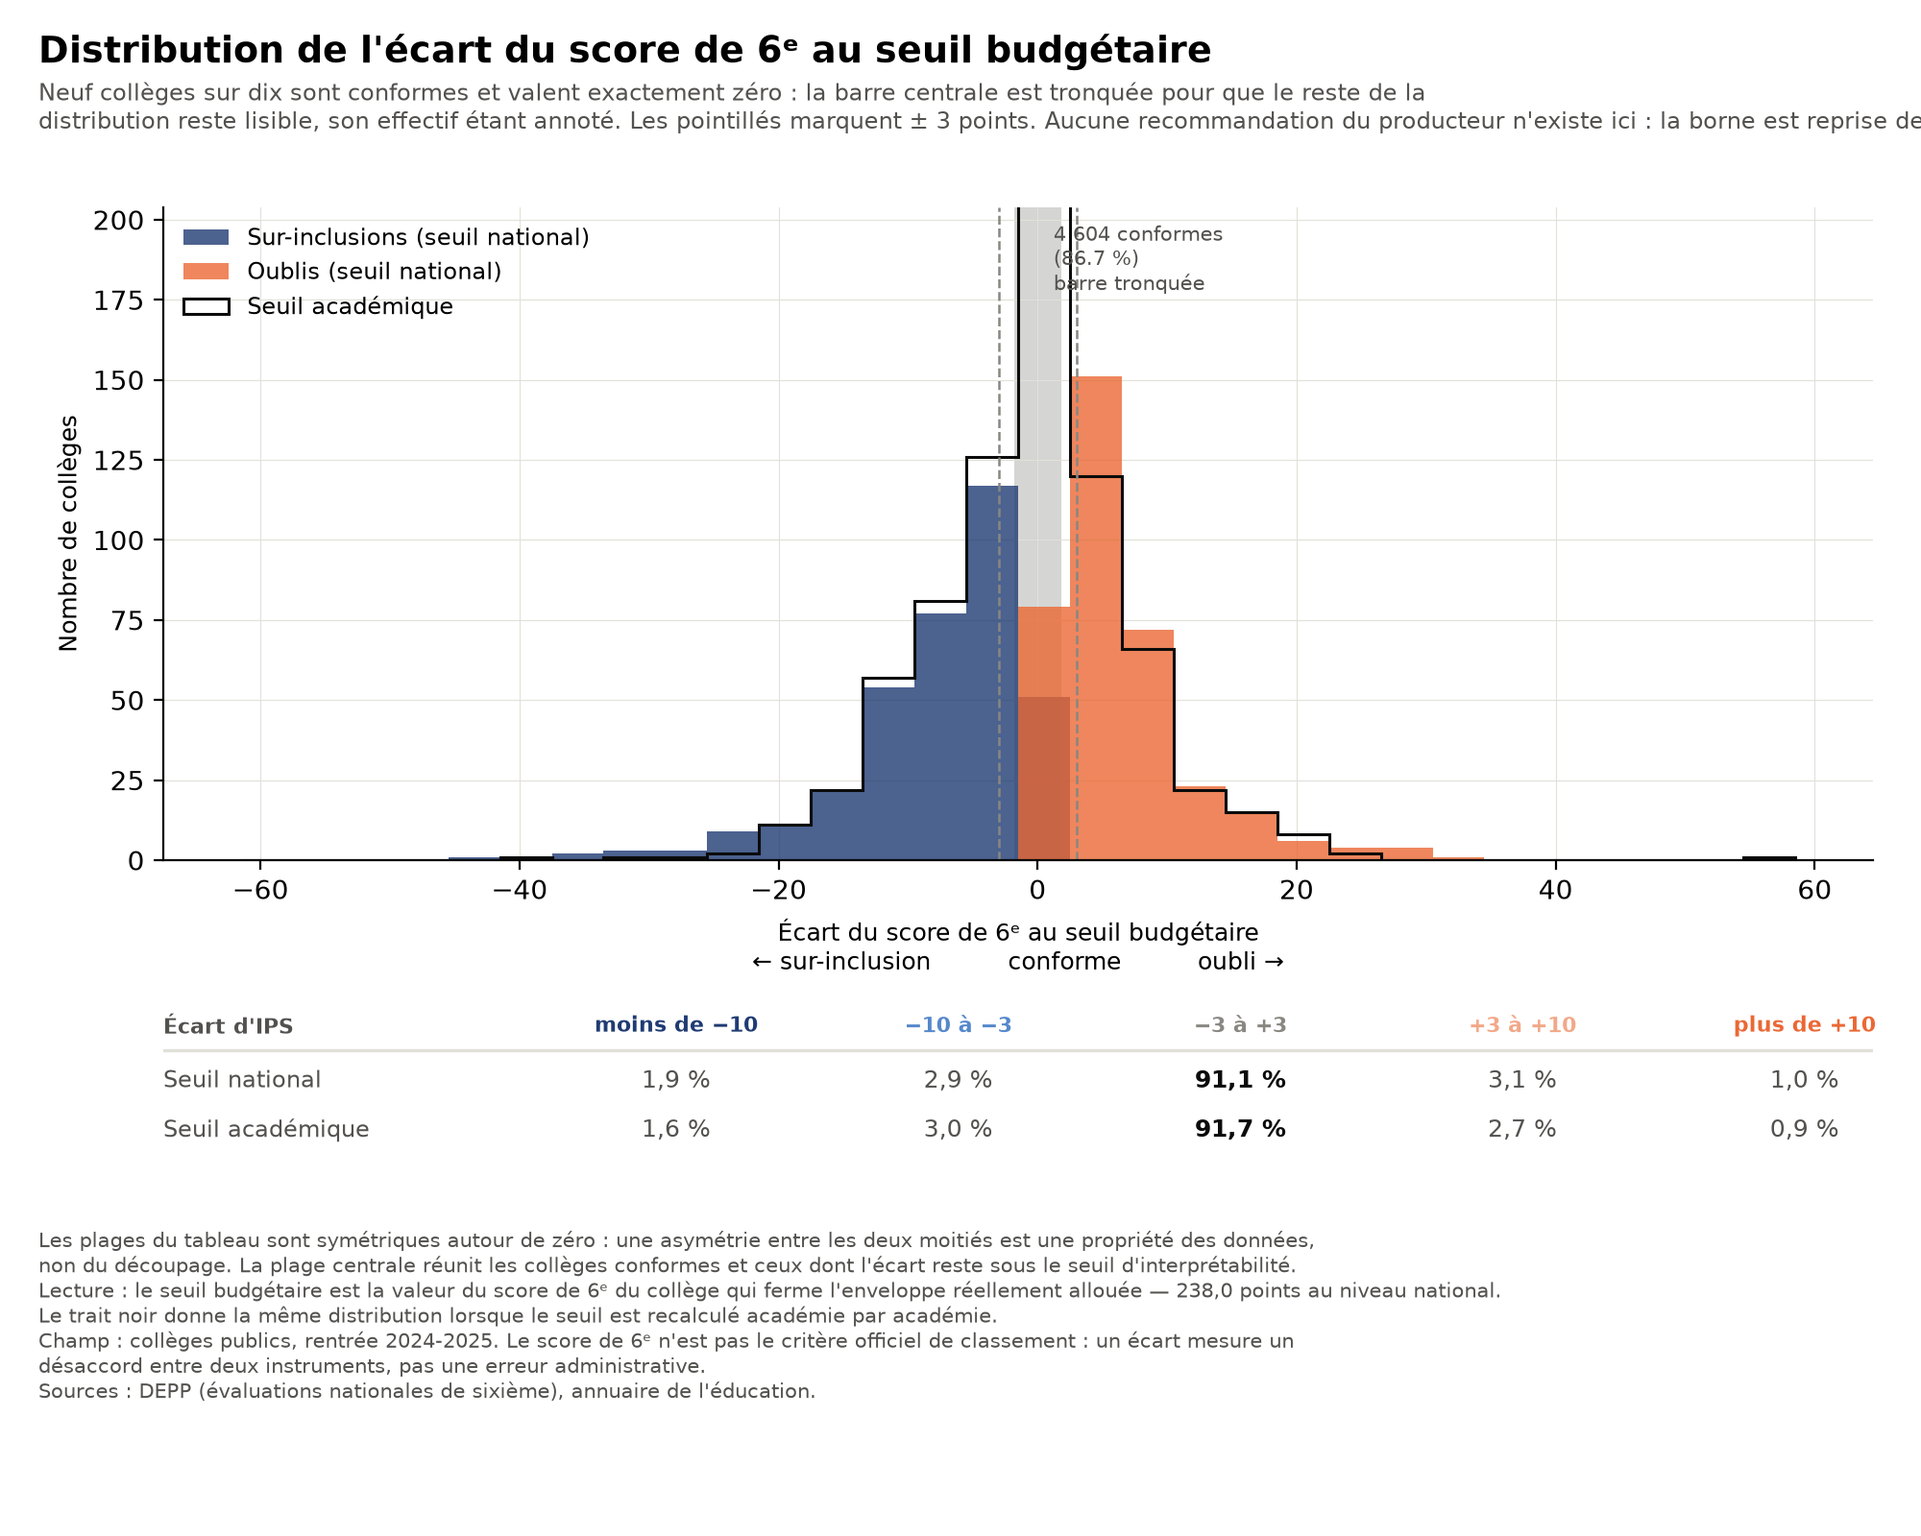
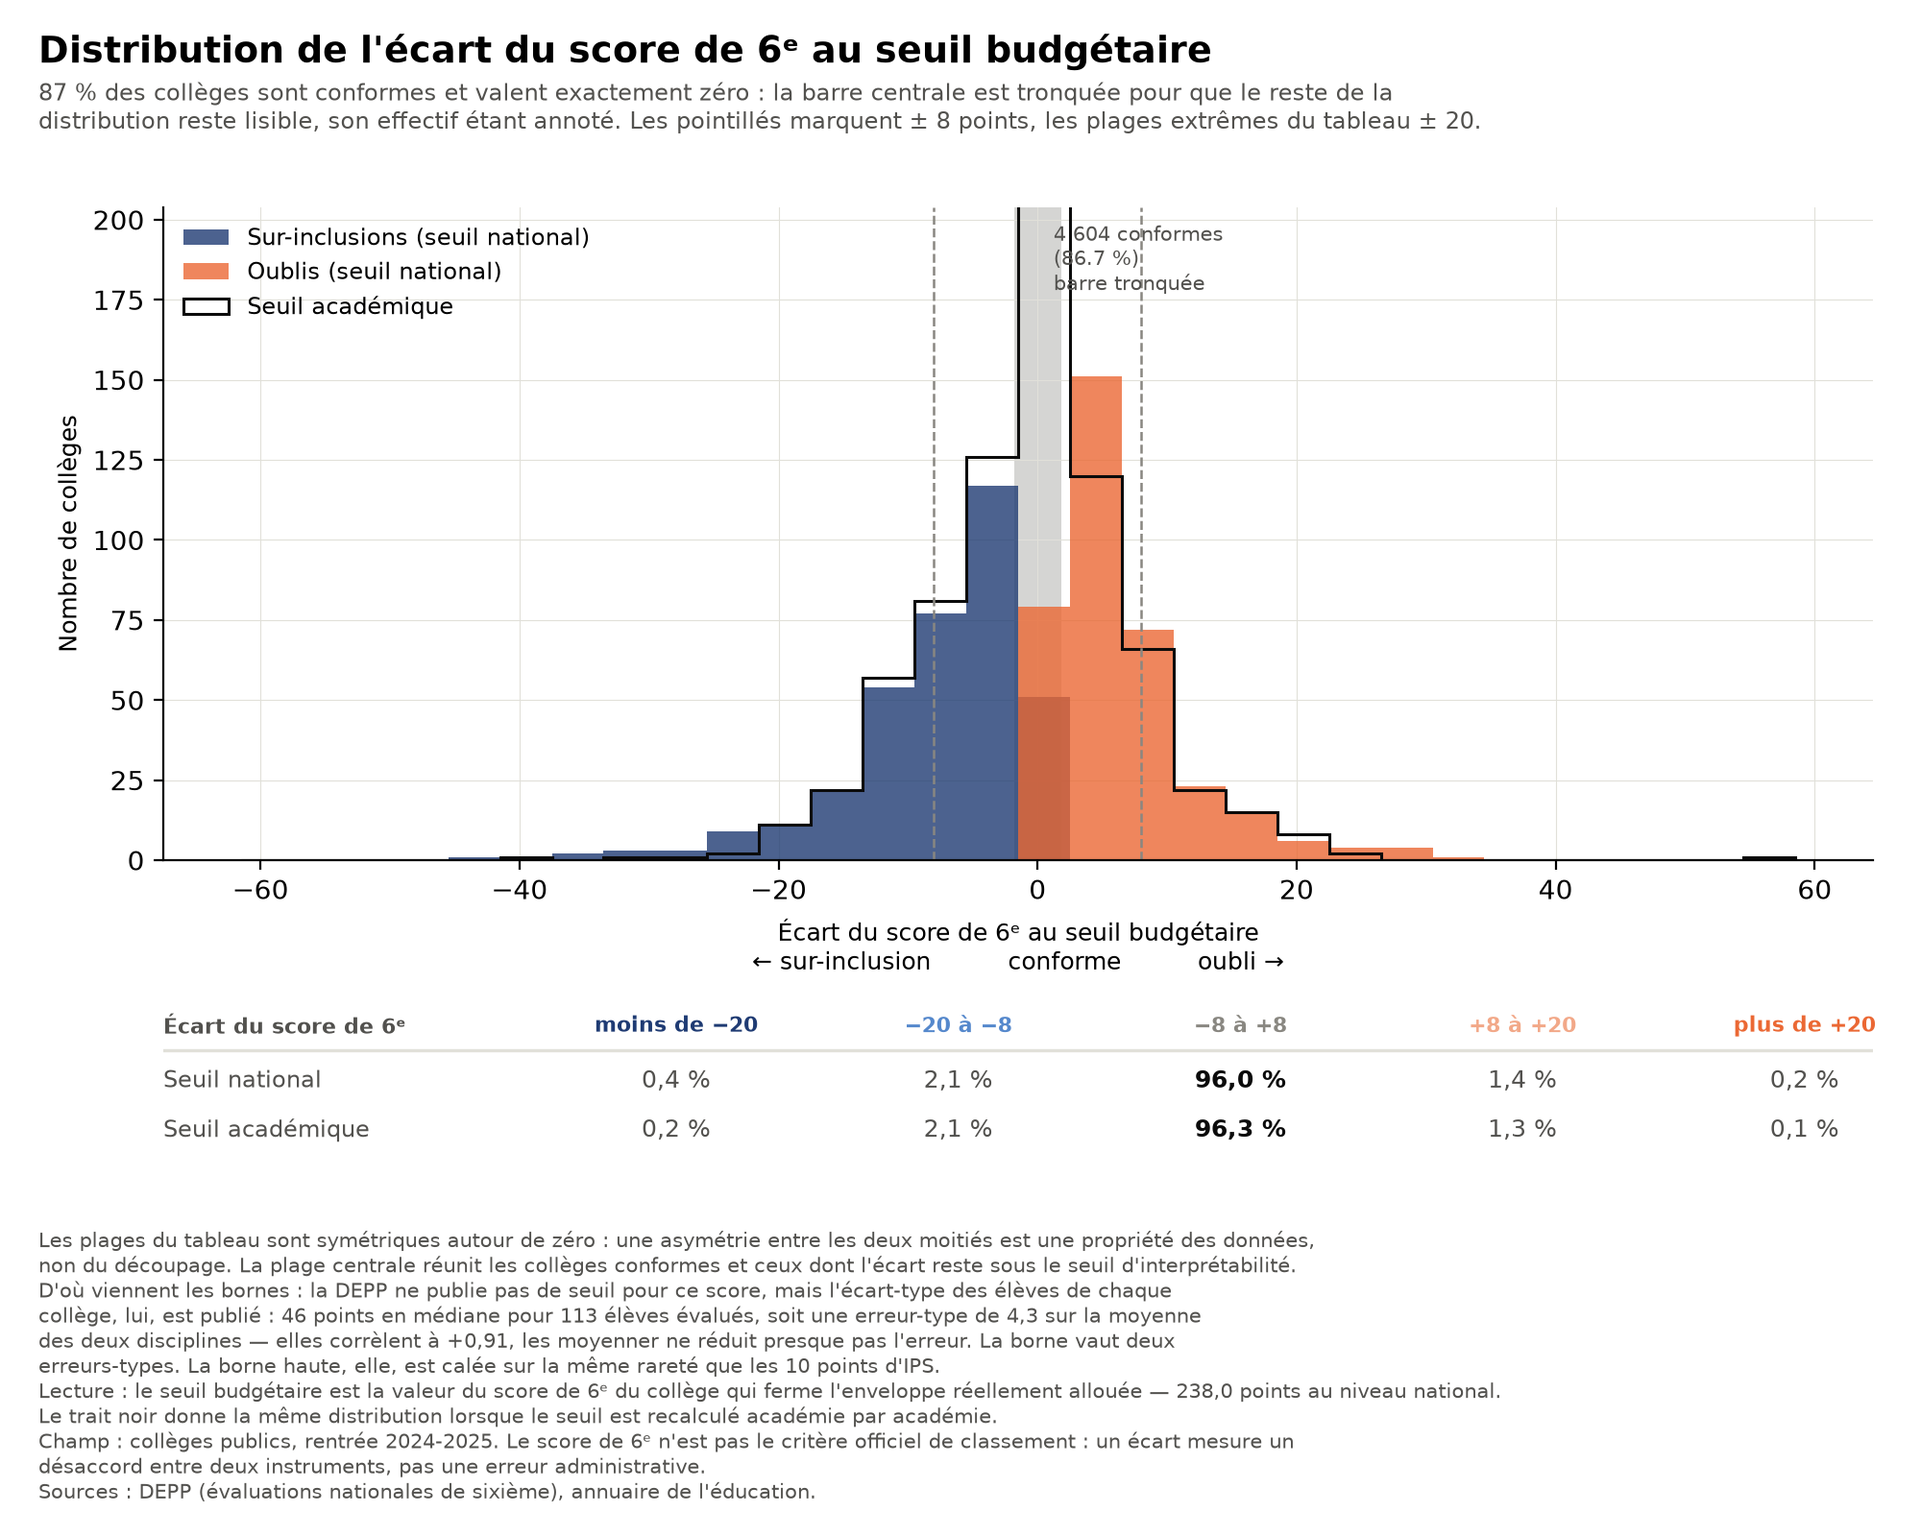
Seuils propres au score de 6e : 8 et 20 points au lieu de 3 et 10
Les bornes du tableau de `distribution_ecart` etaient reprises de l'IPS pour le
score de sixieme, ce qui etait une faute : le score d'un college est la moyenne
d'une centaine d'eleves, donc bien plus bruite que l'IPS. Ces bornes placaient
8,9 % des colleges hors de la bande centrale contre 4,8 % pour l'IPS — elles
faisaient paraitre l'etalon deux fois plus en desaccord avec la carte reelle
qu'il ne l'est.

D'OU VIENNENT LES NOUVELLES BORNES

La DEPP ne publie aucun seuil d'interpretabilite pour ce score. Mais elle publie
l'ecart-type des eleves de chaque college, ce qui permet de construire l'exact
equivalent de sa regle des 3 points d'IPS :

  ecart-type intra-etablissement      46 points (mediane)
  effectif evalue                    113 eleves (mediane)
  correlation francais / maths        +0,914 au niveau college
  erreur-type de la moyenne des deux    4,32 points
  deux erreurs-types                    8,6  ->  borne basse a 8

La correlation de 0,914 compte : les deux disciplines disent presque la meme
chose, donc les moyenner ne reduit quasiment pas l'erreur. Un college du premier
decile d'effectif monte a 13 points.

Aucune regle de mesure ne s'applique a la borne haute — les 10 points d'IPS sont
une convention dont le role est d'isoler la queue extreme. Le seul critere
transposable est donc la RARETE : 20 points laissent au-dela la meme part de
colleges que 10 points d'IPS.

Quatre routes avaient ete testees. L'equivalence en ecart-type inter-
[…]

diff --git a/src/distribution_ecart.py b/src/distribution_ecart.py
@@ -38,6 +38,8 @@ import matplotlib
 
 matplotlib.use("Agg")  # backend sans fenetre : on ecrit des fichiers
 
+import textwrap
+
 import matplotlib.pyplot as plt
 import numpy as np
 import pandas as pd
@@ -47,11 +49,33 @@ from src.etalons import ETALONS, fichier_scores, nom_figure
 
 DOSSIER_TABLES = PROJECT_ROOT / "outputs" / "tables"
 
-# Seuil d'interpretabilite de l'IPS recommande par la DEPP. Sert ici de repere
-# visuel et de borne interieure du tableau, pas de filtre : la figure montre
-# toute la distribution.
-SEUIL_INTERPRETABLE = 3.0
-SEUIL_FORT = 10.0
+# Bornes du tableau, propres a chaque etalon. Reperes visuels et bornes de
+# plages, jamais des filtres : la figure montre toute la distribution.
+#
+# POUR L'IPS, les 3 points sont la recommandation de la DEPP — en deca, une
+# difference n'est pas interpretable — et les 10 points une convention qui
+# isole la queue extreme.
+#
+# POUR LE SCORE DE SIXIEME, la DEPP ne publie aucun seuil d'interpretabilite.
+# Reprendre 3 et 10 serait une faute : le score d'un college est la moyenne
+# d'une centaine d'eleves, donc bien plus bruite que l'IPS. Ces seuils
+# placaient 8,9 % des colleges hors de la bande centrale contre 4,8 % pour
+# l'IPS — ils faisaient paraitre l'etalon deux fois plus en desaccord avec la
+# carte reelle qu'il ne l'est.
+#
+#   8 points  = deux erreurs-types de la moyenne d'un college. C'est l'analogue
+#               exact de la regle des 3 points : l'ecart-type des eleves dans
+#               un college vaut 46 points en mediane, pour 113 eleves evalues,
+#               soit une erreur-type de 4,3 sur la moyenne des deux disciplines
+#               — elles correlent a +0,91, les moyenner ne reduit presque pas
+#               l'erreur. Deux erreurs-types donnent 8,6, arrondi a 8.
+#
+#  20 points  = meme RARETE que 10 points d'IPS. Aucune regle de mesure ne
+#               s'applique a cette borne : son role est d'isoler la queue, et
+#               le seul critere transposable est la part de colleges au-dela.
+#
+# Avec ce reglage les cinq plages retombent a un point de celles de l'IPS.
+SEUILS_PAR_ETALON = {"ips": (3.0, 10.0), "eval6": (8.0, 20.0)}
 
 # Largeur de classe de l'histogramme. L'IPS s'etale sur une centaine de
 # points, le score de sixieme sur plusieurs centaines : le pas suit l'echelle
@@ -65,13 +89,17 @@ ENCRE, GRILLE, MUET, ENCRE_2 = "#0b0b0b", "#e1e0d9", "#898781", "#52514e"
 VARIANTES = [("score_ecart", "type_ecart", "national"),
              ("score_ecart_academie", "type_ecart_academie", "académique")]
 
-# Libelle, couleur de l'en-tete. L'ordre suit l'axe des abscisses, de la
-# sur-inclusion la plus forte a l'oubli le plus fort.
-PLAGES = [("moins de −10", BLEU),
-          ("−10 à −3", BLEU_CLAIR),
-          ("−3 à +3", MUET),
-          ("+3 à +10", ORANGE_CLAIR),
-          ("plus de +10", ORANGE)]
+# Couleurs des cinq plages, de la sur-inclusion la plus forte a l'oubli le plus
+# fort. Les libelles sont construits a partir des seuils de l'etalon : les
+# ecrire en dur les aurait laisses sur "−10 à −3" pour le score de sixieme.
+COULEURS_PLAGES = [BLEU, BLEU_CLAIR, MUET, ORANGE_CLAIR, ORANGE]
+
+
+def libelles_plages(bas: float, haut: float) -> list[str]:
+    """Les cinq etiquettes du tableau, pour un couple de seuils."""
+    b, h = f"{bas:g}", f"{haut:g}"
+    return [f"moins de −{h}", f"−{h} à −{b}", f"−{b} à +{b}",
+            f"+{b} à +{h}", f"plus de +{h}"]
 
 
 def charger(cle: str) -> pd.DataFrame:
@@ -95,31 +123,32 @@ def signer(df: pd.DataFrame, col_score: str, col_type: str) -> np.ndarray:
         [df[col_score], -df[col_score]], default=0.0)
 
 
-def repartir(valeurs: np.ndarray) -> np.ndarray:
+def repartir(valeurs: np.ndarray, bas: float, haut: float) -> np.ndarray:
     """Part de colleges, en %, dans chacune des cinq plages d'ecart.
 
     Les conditions sont testees dans l'ordre et la plage centrale vient en
-    premier : elle est definie par |ecart| <= 3, ce qui la rend exactement
+    premier : elle est definie par |ecart| <= bas, ce qui la rend exactement
     symetrique. Les quatre autres s'en deduisent par le signe et par le
-    franchissement de 10. Aucune borne n'est ainsi attribuee deux fois, et le
-    decoupage ne peut pas fabriquer d'asymetrie.
+    franchissement de haut. Aucune borne n'est ainsi attribuee deux fois, et
+    le decoupage ne peut pas fabriquer d'asymetrie.
     """
     absolu = np.abs(valeurs)
     indices = np.select(
-        [absolu <= SEUIL_INTERPRETABLE,
-         (valeurs < 0) & (absolu > SEUIL_FORT),
+        [absolu <= bas,
+         (valeurs < 0) & (absolu > haut),
          valeurs < 0,
-         valeurs > SEUIL_FORT],
+         valeurs > haut],
         [2, 0, 1, 4],
         default=3)
-    effectifs = np.bincount(indices, minlength=len(PLAGES))
+    effectifs = np.bincount(indices, minlength=len(COULEURS_PLAGES))
     return 100 * effectifs / len(valeurs)
 
 
-def resumer(df: pd.DataFrame) -> None:
+def resumer(df: pd.DataFrame, etalon: dict, bas: float, haut: float) -> None:
     """Affiche la composition de la distribution, par variante."""
     print(f"\n{'=' * 84}")
-    print(f"DISTRIBUTION DE L'ECART D'IPS — {len(df)} colleges publics")
+    print(f"DISTRIBUTION DE L'ECART — {etalon['libelle_long'].upper()} — "
+          f"{len(df)} colleges publics")
     print("=" * 84)
 
     for col_score, _, libelle in VARIANTES:
@@ -135,14 +164,15 @@ def resumer(df: pd.DataFrame) -> None:
     print(f"\n{'-' * 84}")
     print("REPARTITION PAR PLAGE D'ECART, EN % DES COLLEGES")
     print("-" * 84)
-    entetes = [libelle.replace("−", "-") for libelle, _ in PLAGES]
+    entetes = [l.replace("−", "-") for l in libelles_plages(bas, haut)]
     print(f"{'seuil':14s}" + "".join(f"{e:>15s}" for e in entetes))
     for col_score, col_type, libelle in VARIANTES:
-        parts = repartir(signer(df, col_score, col_type))
+        parts = repartir(signer(df, col_score, col_type), bas, haut)
         print(f"{libelle:14s}" + "".join(f"{p:>14.1f}%" for p in parts))
 
 
-def tableau(fig, df: pd.DataFrame, position: list) -> None:
+def tableau(fig, df: pd.DataFrame, position: list, etalon: dict,
+            bas: float, haut: float) -> None:
     """Dessine sous le graphe la repartition en % par plage, pour les 2 seuils.
 
     Le tableau est trace a la main plutot qu'avec `ax.table` : on veut des
@@ -158,22 +188,23 @@ def tableau(fig, df: pd.DataFrame, position: list) -> None:
     # Colonne de libelles a gauche, puis cinq colonnes de valeurs reparties
     # sur l'espace restant.
     x_libelle = 0.0
-    x_colonnes = np.linspace(0.30, 0.96, len(PLAGES))
+    plages = list(zip(libelles_plages(bas, haut), COULEURS_PLAGES))
+    x_colonnes = np.linspace(0.30, 0.96, len(plages))
     y_entete, y_lignes = 0.82, [0.46, 0.14]
 
-    ax.text(x_libelle, y_entete, "Écart d'IPS", fontsize=8,
+    ax.text(x_libelle, y_entete, f"Écart {etalon['de_article']}", fontsize=8,
             fontweight="bold", color=ENCRE_2, va="center")
-    for x, (libelle, couleur) in zip(x_colonnes, PLAGES):
+    for x, (libelle, couleur) in zip(x_colonnes, plages):
         ax.text(x, y_entete, libelle, fontsize=8, fontweight="bold",
                 color=couleur, ha="center", va="center")
 
     ax.plot([0, 1], [0.66, 0.66], color=GRILLE, linewidth=1.2)
 
     for y, (col_score, col_type, libelle) in zip(y_lignes, VARIANTES):
-        parts = repartir(signer(df, col_score, col_type))
+        parts = repartir(signer(df, col_score, col_type), bas, haut)
         ax.text(x_libelle, y, f"Seuil {libelle}", fontsize=8.5,
                 color=ENCRE_2, va="center")
-        for x, part, (_, couleur) in zip(x_colonnes, parts, PLAGES):
+        for x, part, (_, couleur) in zip(x_colonnes, parts, plages):
             # La plage centrale concentre neuf colleges sur dix : elle est mise
             # en gras pour qu'on ne la confonde pas avec les quatre autres.
             centrale = couleur == MUET
@@ -189,6 +220,7 @@ def figure(df: pd.DataFrame, cle: str, etalon: dict) -> None:
     academique = signer(df, "score_ecart_academie", "type_ecart_academie")
 
     pas = PAS_PAR_ETALON[cle]
+    bas, haut = SEUILS_PAR_ETALON[cle]
     sujet = etalon["avec_article"][0].upper() + etalon["avec_article"][1:]
     seuil_txt = (f"{df['seuil'].iloc[0]:.{etalon['decimales']}f} points"
                  .replace(".", ","))
@@ -223,7 +255,7 @@ def figure(df: pd.DataFrame, cle: str, etalon: dict) -> None:
                 xy=(0, plafond), xytext=(6, -6), textcoords="offset points",
                 ha="left", va="top", fontsize=7.5, color=ENCRE_2)
 
-    for borne_seuil in (-SEUIL_INTERPRETABLE, SEUIL_INTERPRETABLE):
+    for borne_seuil in (-bas, bas):
         ax.axvline(borne_seuil, color=MUET, linewidth=0.9, linestyle="--")
 
     ax.set_xlabel(f"Écart {etalon['de_article']} au seuil budgétaire\n"
@@ -236,16 +268,19 @@ def figure(df: pd.DataFrame, cle: str, etalon: dict) -> None:
     for bord in ["top", "right"]:
         ax.spines[bord].set_visible(False)
 
-    tableau(fig, df, [0.085, 0.250, 0.89, 0.100])
+    tableau(fig, df, [0.085, 0.250, 0.89, 0.100], etalon, bas, haut)
 
     fig.suptitle(f"Distribution de l'écart {etalon['de_article']} au seuil "
                  f"budgétaire",
                  fontsize=13.5, fontweight="bold", x=0.02, ha="left", y=0.978)
+    part_nulle = 100 * (national == 0).mean()
     fig.text(0.02, 0.948,
-             "Neuf collèges sur dix sont conformes et valent exactement zéro : la "
-             "barre centrale est tronquée pour que le reste de la\n"
-             "distribution reste lisible, son effectif étant annoté. Les pointillés "
-             f"marquent ± {SEUIL_INTERPRETABLE:.0f} points. {justification}",
+             f"{part_nulle:.0f} % des collèges sont conformes et valent "
+             f"exactement zéro : la barre centrale est tronquée pour que le "
+             f"reste de la\n"
+             "distribution reste lisible, son effectif étant annoté. Les "
+             f"pointillés marquent ± {bas:g} points, les plages extrêmes du "
+             f"tableau ± {haut:g}.",
              fontsize=8.5, va="top", color=ENCRE_2)
 
     fig.text(0.02, 0.200,
@@ -253,6 +288,10 @@ def figure(df: pd.DataFrame, cle: str, etalon: dict) -> None:
              "entre les deux moitiés est une propriété des données,\n"
              "non du découpage. La plage centrale réunit les collèges conformes et "
              "ceux dont l'écart reste sous le seuil d'interprétabilité.\n"
+             # D'ou viennent les bornes : la question se pose differemment selon
+             # l'etalon, et la reponse ne tient pas sur une ligne.
+             + textwrap.fill(f"D'où viennent les bornes : {justification}",
+                             width=118) + "\n"
              f"Lecture : le seuil budgétaire est la valeur {etalon['de_article']} "
              f"du collège qui ferme l'enveloppe réellement allouée — "
              f"{seuil_txt} au niveau national.\n"
@@ -273,8 +312,9 @@ def figure(df: pd.DataFrame, cle: str, etalon: dict) -> None:
 
 def main() -> None:
     for cle, etalon in ETALONS.items():
+        bas, haut = SEUILS_PAR_ETALON[cle]
         df = charger(cle)
-        resumer(df)
+        resumer(df, etalon, bas, haut)
         figure(df, cle, etalon)
 
 

diff --git a/src/etalons.py b/src/etalons.py
@@ -1,4 +1,4 @@
-"""Les deux etalons du projet, et les conventions de nommage qui vont avec.
+"""Les deux etalons du projet, et les conventions de nommage qui vont avec.
 
 POURQUOI UN REGISTRE
 
@@ -57,8 +57,9 @@ ETALONS = {
         # du producteur de la donnee, pour le score de sixieme une simple
         # convention de comparabilite. La nuance doit apparaitre sur la figure.
         "justification_seuil":
-            "En deçà, la DEPP recommande de ne pas interpréter une différence "
-            "d'IPS.",
+            "en deçà, la DEPP recommande de ne pas interpréter une différence "
+            "d'IPS ; la borne haute est une convention, qui isole la queue "
+            "extrême.",
         # Pas de l'histogramme et arrondi d'affichage : l'IPS s'etale sur une
         # centaine de points, le score de sixieme sur plusieurs centaines.
         "pas_histogramme": 2.0,
@@ -75,10 +76,17 @@ ETALONS = {
         "unite_courte": "points",
         "axe": "Score aux évaluations nationales de début de 6ᵉ",
         "source": "DEPP (évaluations nationales de sixième)",
+        # La DEPP ne publie pas de seuil d'interpretabilite pour ce score, mais
+        # elle publie l'ecart-type des eleves de chaque college, ce qui permet
+        # de construire l'exact equivalent de sa regle des 3 points d'IPS.
         "justification_seuil":
-            "Aucune recommandation du producteur n'existe ici : la borne est "
-            "reprise de l'IPS, dont la dispersion entre établissements est "
-            "comparable (14,7 contre 16,9 points).",
+            "la DEPP ne publie pas de seuil pour ce score, mais l'écart-type "
+            "des élèves de chaque collège, lui, est publié : 46 points en "
+            "médiane pour 113 élèves évalués, soit une erreur-type de 4,3 sur "
+            "la moyenne des deux disciplines — elles corrèlent à +0,91, les "
+            "moyenner ne réduit presque pas l'erreur. La borne vaut deux "
+            "erreurs-types. La borne haute, elle, est calée sur la même rareté "
+            "que les 10 points d'IPS.",
         "pas_histogramme": 5.0,
         "decimales": 1,
     },

diff --git a/README.md b/README.md
@@ -222,6 +222,23 @@ Ces deux cas sont de sens opposé : **oubli** (sous le seuil, non classé) et
 
 ### La distribution de l'écart au seuil
 
+Les deux figures qui suivent n'utilisent **pas les mêmes bornes**, et c'est volontaire.
+Pour l'IPS, les 3 points sont la recommandation de la DEPP — en deçà, une différence
+n'est pas interprétable — et les 10 points une convention qui isole la queue extrême.
+
+Pour le score de 6ᵉ, la DEPP ne publie aucun seuil. Mais elle publie l'**écart-type des
+élèves de chaque collège**, ce qui permet de construire l'équivalent exact : 46 points
+en médiane pour 113 élèves évalués, soit une **erreur-type de 4,3** sur la moyenne des
+deux disciplines — elles corrèlent à +0,91, les moyenner ne réduit presque pas l'erreur.
+Deux erreurs-types donnent **8 points**. La borne haute, elle, est calée sur la même
+rareté que les 10 points d'IPS : **20 points**.
+
+Reprendre 3 et 10 aurait été une faute. Ces bornes plaçaient **8,9 %** des collèges hors
+de la bande centrale contre 4,8 % pour l'IPS : elles faisaient paraître le score de 6ᵉ
+deux fois plus en désaccord avec la carte réelle qu'il ne l'est, uniquement parce
+qu'elles sont trop serrées pour une mesure plus bruitée. Avec 8 et 20, les cinq plages
+retombent à un point de celles de l'IPS.
+
 ![Distribution de l'écart d'IPS au seuil budgétaire](outputs/figures/distribution_ecart.png)
 
 **Commentaire à ajouter moi meme**
